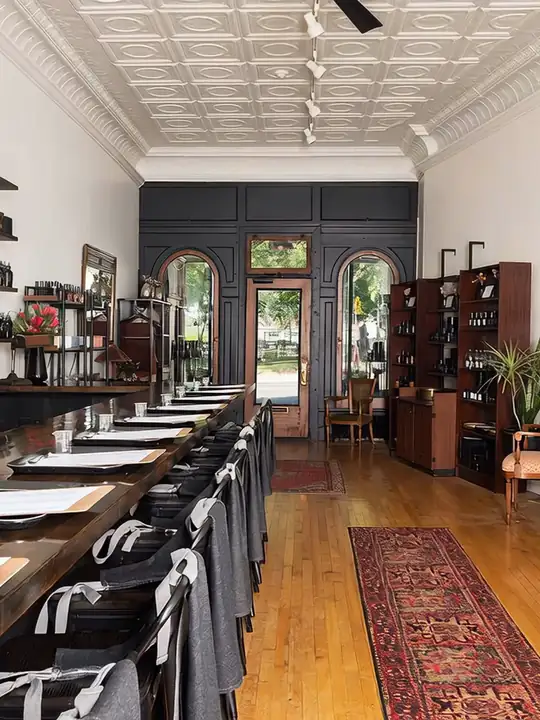
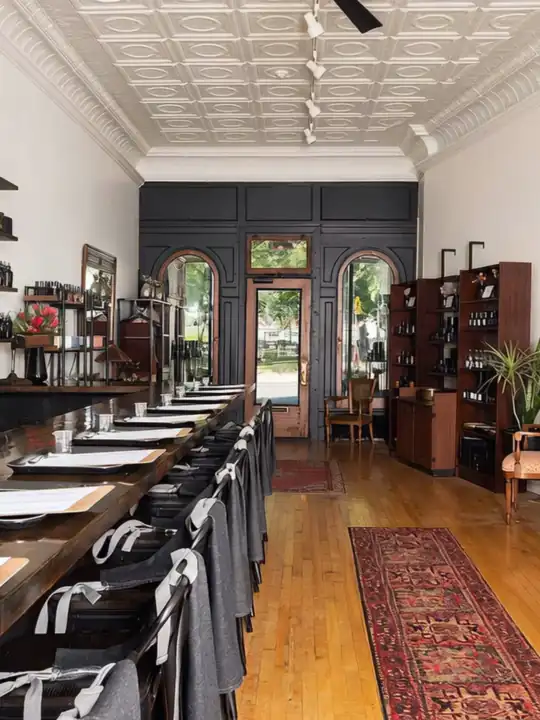
Poured film v4.1: LCP/CLS - native pin-spacer wrappers (pinning no longer re-parents the poster), non-blocking fonts with hero copy revealed after webfonts (no swap shift), lighter 540/720 mobile poster, hero frames start on first scroll/touch or 2.5 s, low priority for lazy images, cache-bust v=6

diff --git a/index.html b/index.html
@@ -14,9 +14,9 @@
 <link rel="preload" as="style" href="https://fonts.googleapis.com/css2?family=Cormorant+Garamond:ital,wght@0,600;0,700;1,500&family=Karla:wght@400;600&display=swap">
 <link href="https://fonts.googleapis.com/css2?family=Cormorant+Garamond:ital,wght@0,600;0,700;1,500&family=Karla:wght@400;600&display=swap" rel="stylesheet" media="print" onload="this.media='all'">
 <noscript><link href="https://fonts.googleapis.com/css2?family=Cormorant+Garamond:ital,wght@0,600;0,700;1,500&family=Karla:wght@400;600&display=swap" rel="stylesheet"></noscript>
-<link rel="preload" as="image" type="image/webp" media="(max-width:899px)" imagesrcset="img/hero-m-540.webp 540w, img/hero-m-810.webp 810w" imagesizes="100vw" fetchpriority="high">
+<link rel="preload" as="image" type="image/webp" media="(max-width:899px)" imagesrcset="img/hero-m-540.webp 540w, img/hero-m-720.webp 720w" imagesizes="100vw" fetchpriority="high">
 <link rel="preload" as="image" type="image/webp" media="(min-width:900px)" imagesrcset="img/hero-1280.webp 1280w, img/hero-1920.webp 1920w" imagesizes="100vw" fetchpriority="high">
-<link rel="stylesheet" href="styles.css">
+<link rel="stylesheet" href="styles.css?v=6">
 </head>
 <body>
 <aside class="flag" aria-label="Notice"><p>Concept preview · not affiliated with Poured Candle Bar</p></aside>
@@ -29,9 +29,9 @@
 
 <main>
 <!-- HERO: scroll-scrubbed film (walk in → wall of scents) -->
-<section class="film film--hero" id="today" data-film="hero" data-frames="68" aria-labelledby="hero-h">
+<div class="pin-spacer"><section class="film film--hero" id="today" data-film="hero" data-frames="68" aria-labelledby="hero-h">
   <div class="film__stage">
-    <picture><source type="image/webp" media="(max-width:899px)" srcset="img/hero-m-540.webp 540w, img/hero-m-810.webp 810w" sizes="100vw"><source type="image/webp" srcset="img/hero-1280.webp 1280w, img/hero-1920.webp 1920w" sizes="100vw"><img class="film__poster" src="img/hero-1280.jpg" alt="The long shop interior: a bar with stools along one wall, shelves of fragrance bottles, a runner rug, and a leather sofa." width="1280" height="720" fetchpriority="high"></picture>
+    <picture><source type="image/webp" media="(max-width:899px)" srcset="img/hero-m-540.webp 540w, img/hero-m-720.webp 720w" sizes="100vw"><source type="image/webp" srcset="img/hero-1280.webp 1280w, img/hero-1920.webp 1920w" sizes="100vw"><img class="film__poster" src="img/hero-1280.jpg" alt="The long shop interior: a bar with stools along one wall, shelves of fragrance bottles, a runner rug, and a leather sofa." width="1280" height="720" fetchpriority="high"></picture>
     <canvas class="film__canvas" aria-hidden="true"></canvas>
     <div class="film__veil" aria-hidden="true"></div>
     <p class="film__label">Illustrative · AI-generated from the shop’s photos</p>
@@ -48,7 +48,7 @@
       <p class="today__row"><span class="dot dot--plain" aria-hidden="true"></span><span><b>Seats</b> Limited; weekends book up. Walk-ins welcome, first come, first served.</span></p>
     </div>
   </div>
-</section>
+</section></div>
 
 <!-- HOW IT WORKS -->
 <section class="sec how" id="pour" aria-labelledby="po-h">
@@ -61,14 +61,14 @@
       <li class="step" data-from="left"><span class="step__n">1 · BOOK</span><p>Reserve a seat for everyone in your party; each person makes their own fragrance (no shared experiences). Groups of 5 or more should call before booking online.</p></li>
       <li class="step" data-from="right"><span class="step__n">2 · BLEND</span><p>Staff help you build a scent combination from 40+ fragrances, made with perfume-grade fragrance and essential oils. Wine, beer, and cider are available at the bar. No outside food or drink.</p></li>
 </ol>
-    <figure class="barshot"><div class="feather par" data-speed="-8"><picture><source type="image/webp" srcset="img/bar-600.webp 600w, img/bar-1200.webp 1200w" sizes="(min-width:900px) 380px, 90vw"><img src="img/bar.jpg" alt="The blending bar: a scent-notes clipboard and pencil, a glass of red wine, and a small beaker on a black tray, with wine bottles and shelves of fragrance bottles behind." width="1200" height="1500" loading="lazy" decoding="async"></picture></div><figcaption>The blending bar. Photo: pouredcandlebar.com</figcaption></figure>
+    <figure class="barshot"><div class="feather par" data-speed="-8"><picture><source type="image/webp" srcset="img/bar-600.webp 600w, img/bar-1200.webp 1200w" sizes="(min-width:900px) 380px, 90vw"><img src="img/bar.jpg" alt="The blending bar: a scent-notes clipboard and pencil, a glass of red wine, and a small beaker on a black tray, with wine bottles and shelves of fragrance bottles behind." width="1200" height="1500" loading="lazy" decoding="async" fetchpriority="low"></picture></div><figcaption>The blending bar. Photo: pouredcandlebar.com</figcaption></figure>
   </div>
 </section>
 
 <!-- IMPACT: the pour -->
-<section class="film film--impact film--pour" data-film="pour" data-frames="105" aria-labelledby="pour-h">
+<div class="pin-spacer"><section class="film film--impact film--pour" data-film="pour" data-frames="105" aria-labelledby="pour-h">
   <div class="film__stage">
-    <picture><source type="image/webp" srcset="img/pour-end-1280.webp 1280w, img/pour-end-1920.webp 1920w" sizes="100vw"><img class="film__poster" src="img/pour-end-1280.jpg" alt="" width="1280" height="720" loading="lazy" decoding="async"></picture>
+    <picture><source type="image/webp" srcset="img/pour-end-1280.webp 1280w, img/pour-end-1920.webp 1920w" sizes="100vw"><img class="film__poster" src="img/pour-end-1280.jpg" alt="" width="1280" height="720" loading="lazy" decoding="async" fetchpriority="low"></picture>
     <canvas class="film__canvas" aria-hidden="true"></canvas>
     <div class="film__veil" aria-hidden="true"></div>
     <p class="film__label">Illustrative · AI-generated from the shop’s photos</p>
@@ -82,7 +82,7 @@
           </ol>
     </div>
   </div>
-</section>
+</section></div>
 
 <!-- PRICES + BOOK -->
 <section class="sec prices" id="prices" aria-labelledby="pr-h">
@@ -98,7 +98,7 @@
       <p class="note rv" id="fn-price">* Their FAQ lists $48; the booking page shows $50 as of Oct 12, 2026. The 18% service charge goes to staff for a livable wage. Call to confirm: <a href="tel:+15183033878">(518) 303-3878</a>.</p>
       <div class="btns rv"><a class="btn btn--ghost" href="https://www.pouredcandlebar.com/pages/faqs" target="_blank" rel="noopener">READ THE FAQ</a><a class="btn btn--ghost" href="https://www.pouredcandlebar.com/pages/shop-home-fragrances-at-poured-new-york" target="_blank" rel="noopener">SHOP SCENTS</a></div>
     </div>
-    <div class="pr__media"><div class="feather par" data-speed="10"><picture><source type="image/webp" srcset="img/tray-800.webp 800w, img/tray-1500.webp 1500w" sizes="(min-width:900px) 460px, 92vw"><img src="img/tray.jpg" alt="A black tray on a wooden bar holding a fragrance bottle, a marble dish, two candle vessels, and a mixing stick, next to a clipboard and a glass of wine." width="1500" height="1200" loading="lazy" decoding="async"></picture></div></div>
+    <div class="pr__media"><div class="feather par" data-speed="10"><picture><source type="image/webp" srcset="img/tray-800.webp 800w, img/tray-1500.webp 1500w" sizes="(min-width:900px) 460px, 92vw"><img src="img/tray.jpg" alt="A black tray on a wooden bar holding a fragrance bottle, a marble dish, two candle vessels, and a mixing stick, next to a clipboard and a glass of wine." width="1500" height="1200" loading="lazy" decoding="async" fetchpriority="low"></picture></div></div>
   </div>
   <div class="wrap book" id="book">
     <h2 class="disp lines">Book a seat</h2>
@@ -107,9 +107,9 @@
 </section>
 
 <!-- IMPACT: the wick -->
-<section class="film film--impact film--wick" data-film="wick" data-frames="49" aria-label="Lighting the wick">
+<div class="pin-spacer"><section class="film film--impact film--wick" data-film="wick" data-frames="49" aria-label="Lighting the wick">
   <div class="film__stage">
-    <picture><source type="image/webp" srcset="img/wick-end-1280.webp 1280w, img/wick-end-1920.webp 1920w" sizes="100vw"><img class="film__poster" src="img/end-wick.jpg" alt="" width="1280" height="720" loading="lazy" decoding="async"></picture>
+    <picture><source type="image/webp" srcset="img/wick-end-1280.webp 1280w, img/wick-end-1920.webp 1920w" sizes="100vw"><img class="film__poster" src="img/end-wick.jpg" alt="" width="1280" height="720" loading="lazy" decoding="async" fetchpriority="low"></picture>
     <canvas class="film__canvas" aria-hidden="true"></canvas>
     <div class="film__veil" aria-hidden="true"></div>
     <p class="film__label">Illustrative · AI-generated from the shop’s photos</p>
@@ -117,16 +117,16 @@
   <div class="caps">
     <div class="cap cap--center cap--scrim"><p class="cap__big cap__quote">“All of our scents + candles are handcrafted in Hudson, New York.”</p></div>
   </div>
-</section>
+</section></div>
 
 <!-- ABOUT -->
 <section class="sec about" id="about" aria-labelledby="ab-h">
   <div class="wrap ab__in">
-    <div class="ab__media"><div class="feather par" data-speed="-10"><picture><source type="image/webp" srcset="img/shop-800.webp 800w, img/shop-1500.webp 1500w" sizes="(min-width:900px) 560px, 92vw"><img src="img/shop.jpg" alt="The long shop interior: a white bar with stools along one wall, shelves of fragrance bottles, a runner rug, and a leather sofa." width="1500" height="1200" loading="lazy" decoding="async"></picture></div></div>
+    <div class="ab__media"><div class="feather par" data-speed="-10"><picture><source type="image/webp" srcset="img/shop-800.webp 800w, img/shop-1500.webp 1500w" sizes="(min-width:900px) 560px, 92vw"><img src="img/shop.jpg" alt="The long shop interior: a white bar with stools along one wall, shelves of fragrance bottles, a runner rug, and a leather sofa." width="1500" height="1200" loading="lazy" decoding="async" fetchpriority="low"></picture></div></div>
     <div>
       <h2 id="ab-h" class="disp lines">Fragrance is decor</h2>
       <p class="rv">Poured is run by Dennis Green and Ricky Tiscareno, partners in business and life (plus Nashville, their rescue dog). Dennis came from Toronto and the luxury knitwear trade; Ricky from San Jose, by way of professional dance and tech recruiting.</p>
-      <div class="owners rv"><picture><source type="image/webp" srcset="img/owners-344.webp 344w" sizes="(max-width:480px) 112px, 140px"><img src="img/owners.jpg" alt="Dennis Green and Ricky Tiscareno seated on a wooden bench outdoors with their small dog." width="344" height="480" loading="lazy" decoding="async"></picture><p class="note">Quoted and summarized from pouredcandlebar.com home and About pages, checked Oct 12, 2026.</p></div>
+      <div class="owners rv"><picture><source type="image/webp" srcset="img/owners-344.webp 344w" sizes="(max-width:480px) 112px, 140px"><img src="img/owners.jpg" alt="Dennis Green and Ricky Tiscareno seated on a wooden bench outdoors with their small dog." width="344" height="480" loading="lazy" decoding="async" fetchpriority="low"></picture><p class="note">Quoted and summarized from pouredcandlebar.com home and About pages, checked Oct 12, 2026.</p></div>
     </div>
   </div>
 </section>
@@ -170,6 +170,6 @@
 </div>
 <script src="js/gsap.min.js" defer></script>
 <script src="js/ScrollTrigger.min.js" defer></script>
-<script src="main.js?v=4" defer></script>
+<script src="main.js?v=6" defer></script>
 </body>
 </html>

diff --git a/main.js b/main.js
@@ -76,8 +76,9 @@
   window.__pcbFilms=films;
   // keep the first screen light: hero phase 1 after load, the rest on first scroll or after idle
   var hero=films[0];
-  function heroAll(){hero.load(2);removeEventListener('scroll',heroAll);}
-  function afterLoad(){hero.load(1);addEventListener('scroll',heroAll,{passive:true});setTimeout(heroAll,3500);}
+    // first screen stays light: the poster is the first frame; hero frames start on first scroll/touch or 2.5 s after load
+  function heroAll(){hero.load(1);hero.load(2);removeEventListener('scroll',heroAll);removeEventListener('touchstart',heroAll);}
+  function afterLoad(){addEventListener('scroll',heroAll,{passive:true});addEventListener('touchstart',heroAll,{passive:true});setTimeout(heroAll,2500);}
   if(document.readyState==='complete')afterLoad();else addEventListener('load',afterLoad);
   var io=new IntersectionObserver(function(es){es.forEach(function(e){if(e.isIntersecting){films.forEach(function(f){if(f.sec===e.target){f.load(1);f.load(2);}});io.unobserve(e.target);}});},{rootMargin:'250% 0px'});
   films.slice(1).forEach(function(f){io.observe(f.sec);});
@@ -90,7 +91,7 @@
   films.forEach(function(f){
     var caps=[].slice.call(f.sec.querySelectorAll('.cap')),isHero=f.name==='hero',o={f:0};
     var len=isHero?320:f.name==='pour'?280:240;
-    var tl=gsap.timeline({defaults:{ease:'none'},scrollTrigger:{trigger:f.sec,start:'top top',end:'+='+len+'%',pin:true,scrub:.5,anticipatePin:1,invalidateOnRefresh:true,
+    var tl=gsap.timeline({defaults:{ease:'none'},scrollTrigger:{trigger:f.sec,start:'top top',end:'+='+len+'%',pin:true,pinSpacer:f.sec.parentElement.classList.contains('pin-spacer')?f.sec.parentElement:undefined,scrub:.5,anticipatePin:1,invalidateOnRefresh:true,
       onUpdate:function(st){f.draw(o.f);if(isHero)ctaOut(st.progress>.2);}, onLeave:function(){if(isHero)ctaOut(true);}, onEnterBack:function(st){if(isHero)ctaOut(st.progress>.2);}}});
     tl.to(o,{f:f.n-1,duration:10,onUpdate:function(){f.draw(o.f);}},0);
     if(isHero){
@@ -113,11 +114,16 @@
     var frag=document.createElement('div');walk(tmp,frag);el.setAttribute('aria-label',el.textContent.replace(/\s+/g,' ').trim());el.innerHTML=frag.innerHTML;
     [].forEach.call(el.querySelectorAll('.w'),function(w){w.setAttribute('aria-hidden','true');});
     return el.querySelectorAll('.w>span');}
+  var heroWords=null;
   [].forEach.call(document.querySelectorAll('.lines'),function(el){var ws=split(el);
-    if(el.id==='hero-h'){gsap.from(ws,{yPercent:110,duration:.75,ease:'expo.out',stagger:.04,delay:.1});return;}
+    if(el.id==='hero-h'){heroWords=ws;return;}
     gsap.from(ws,{yPercent:110,duration:.8,ease:'expo.out',stagger:.04,scrollTrigger:{trigger:el,start:'top 85%',toggleActions:'play none none reverse'}});});
-  gsap.from('.cap--hero .kicker, .cap--hero .lede, .cap--hero .today__row, .cap--hero .btns',{y:18,autoAlpha:0,duration:.6,ease:'power3.out',stagger:.08,delay:.25});
+
   gsap.utils.toArray('.rv').forEach(function(el){gsap.from(el,{y:24,autoAlpha:0,duration:.7,ease:'power3.out',scrollTrigger:{trigger:el,start:'top 88%',toggleActions:'play none none reverse'}});});
+  var introd=false;function intro(){if(introd)return;introd=true;root.classList.add('fonts-in');
+    var tl=gsap.timeline();if(heroWords)tl.from(heroWords,{yPercent:110,duration:.7,ease:'expo.out',stagger:.04},0);
+    tl.from('.cap--hero .kicker, .cap--hero .lede, .cap--hero .today__row, .cap--hero .btns',{y:18,autoAlpha:0,duration:.55,ease:'power3.out',stagger:.07},.12);}
+  if(document.fonts&&document.fonts.ready){document.fonts.ready.then(intro);setTimeout(intro,1200);}else intro();
   // steps slide in from alternating sides, then their rule sweeps across
   var steps=gsap.utils.toArray('.how .step');
   var stl=gsap.timeline({scrollTrigger:{trigger:'.how .steps',start:'top 80%',toggleActions:'play none none reverse'}});

diff --git a/styles.css b/styles.css
@@ -190,3 +190,6 @@ html:not(.motion) .film--pour .caps{margin-top:0}
   html:not(.motion) .film--hero .caps{margin-top:-1.25rem}
 }
 .motion .cap--left{background:rgba(14,10,7,.86);box-shadow:0 0 70px 50px rgba(14,10,7,.86)}
+.motion .cap--hero{clip-path:inset(-240px);transition:clip-path .7s var(--ease)}
+.motion:not(.fonts-in) .cap--hero{clip-path:inset(0 0 100% 0)}
+.motion:not(.fonts-in) .cap--hero>*{opacity:0}

diff --git a/CREDITS.md b/CREDITS.md
@@ -52,7 +52,7 @@ The scroll-scrubbed footage on this page is AI-generated video, made from the sh
 | frames/pour (melted wax poured into an amber glass jar) | 105 | Frame 1 is a crop of img/tray.jpg (black tray, marble coaster, marble vessel with wick tabs; the labelled bottle and the clipboard are outside the crop). It dips through dark into an 8 s generated clip: a steel pouring pitcher pours a thin, clear-to-amber stream of liquid wax into an empty amber glass jar with a standing wick until it is full, then lifts away. The jar, pitcher and room are invented by the model; they illustrate the step, not the shop's actual vessels. |
 | frames/wick (a wick is lit, the flame blooms) | 49 (8 s clip, every 2nd frame, old frames 029–076 cut) | Ends on img/bowl.jpg. The cut removes ghosted flames; the join is a short dip through dark. |
 
-Frames are WebP, cut after a 2× upscale of the 720p clips: `x/` 2560×1440 for large or high-DPR desktop screens, `d/` 1920×1080, and `m/` 1080×1440 centre crops for phones (WebP q78; desktop tiers q80–85). Hero and wick were upscaled with a commercial video upscaler; the new pour clip with Real-ESRGAN x2plus, then Lanczos to the tier sizes. The page picks a tier from the canvas CSS size × devicePixelRatio (capped at 2). On phones the hero loads its first 8 frames plus every 8th after page load and the rest on first scroll; the pour and wick load when they come near. Posters and stills are first or last frames from the same clips. When reduced motion is on, or JS is off, the page shows the stills and all of the content without scroll-scrubbing.
+Frames are WebP, cut after a 2× upscale of the 720p clips: `x/` 2560×1440 for large or high-DPR desktop screens, `d/` 1920×1080, and `m/` 1080×1440 centre crops for phones (WebP q78; desktop tiers q80–85). Hero and wick were upscaled with a commercial video upscaler; the new pour clip with Real-ESRGAN x2plus, then Lanczos to the tier sizes. The page picks a tier from the canvas CSS size × devicePixelRatio (capped at 2). The hero poster is its first frame; hero frames start loading on the first scroll or touch (or 2.5 s after load), coarse first (first 8 + every 8th) then the rest; the pour and wick load when they come near. Posters and stills are first or last frames from the same clips. When reduced motion is on, or JS is off, the page shows the stills and all of the content without scroll-scrubbing.
 
 ## Code
 GSAP 3.12.5 + ScrollTrigger, served locally from js/ (standard GSAP license).
